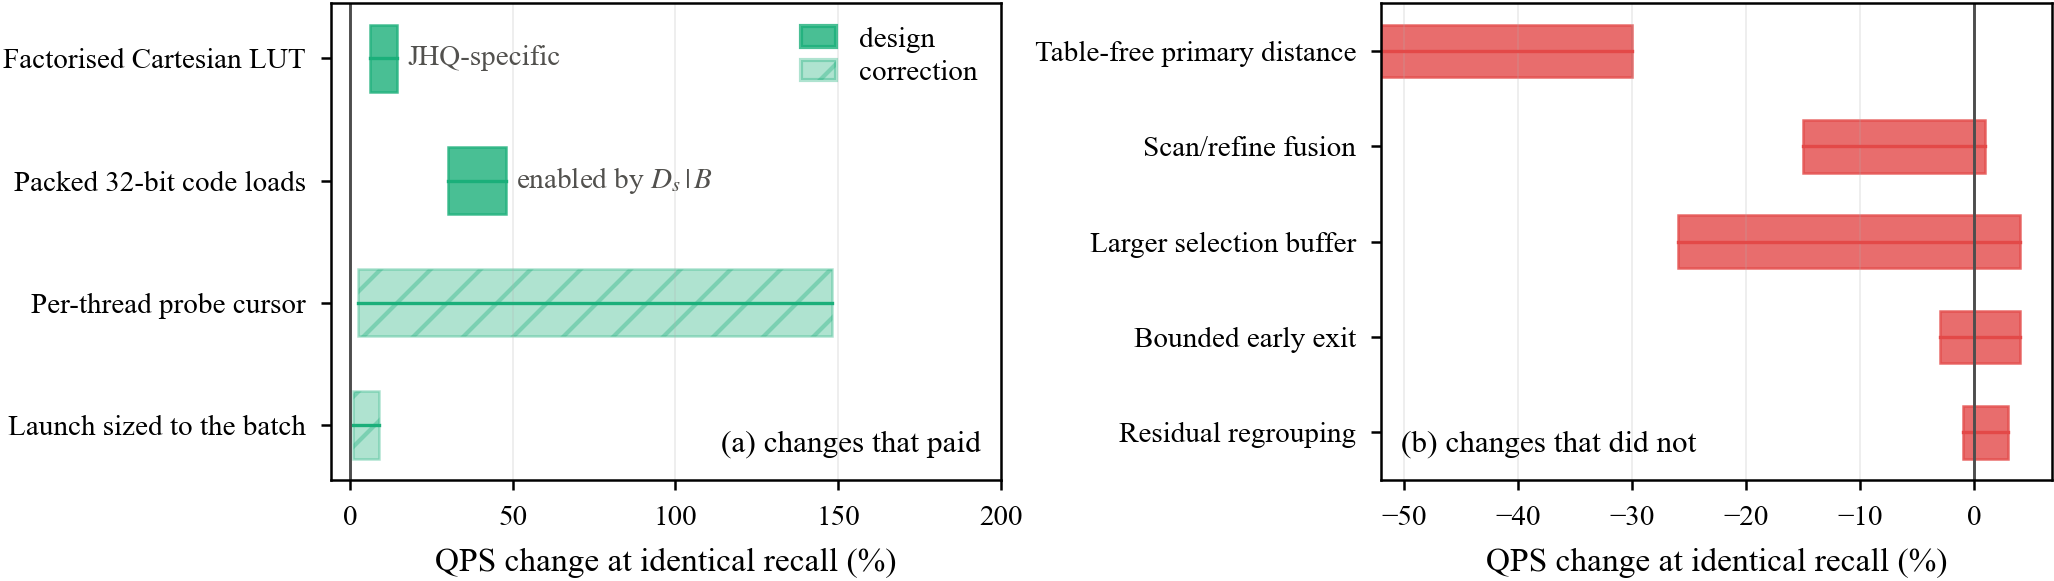
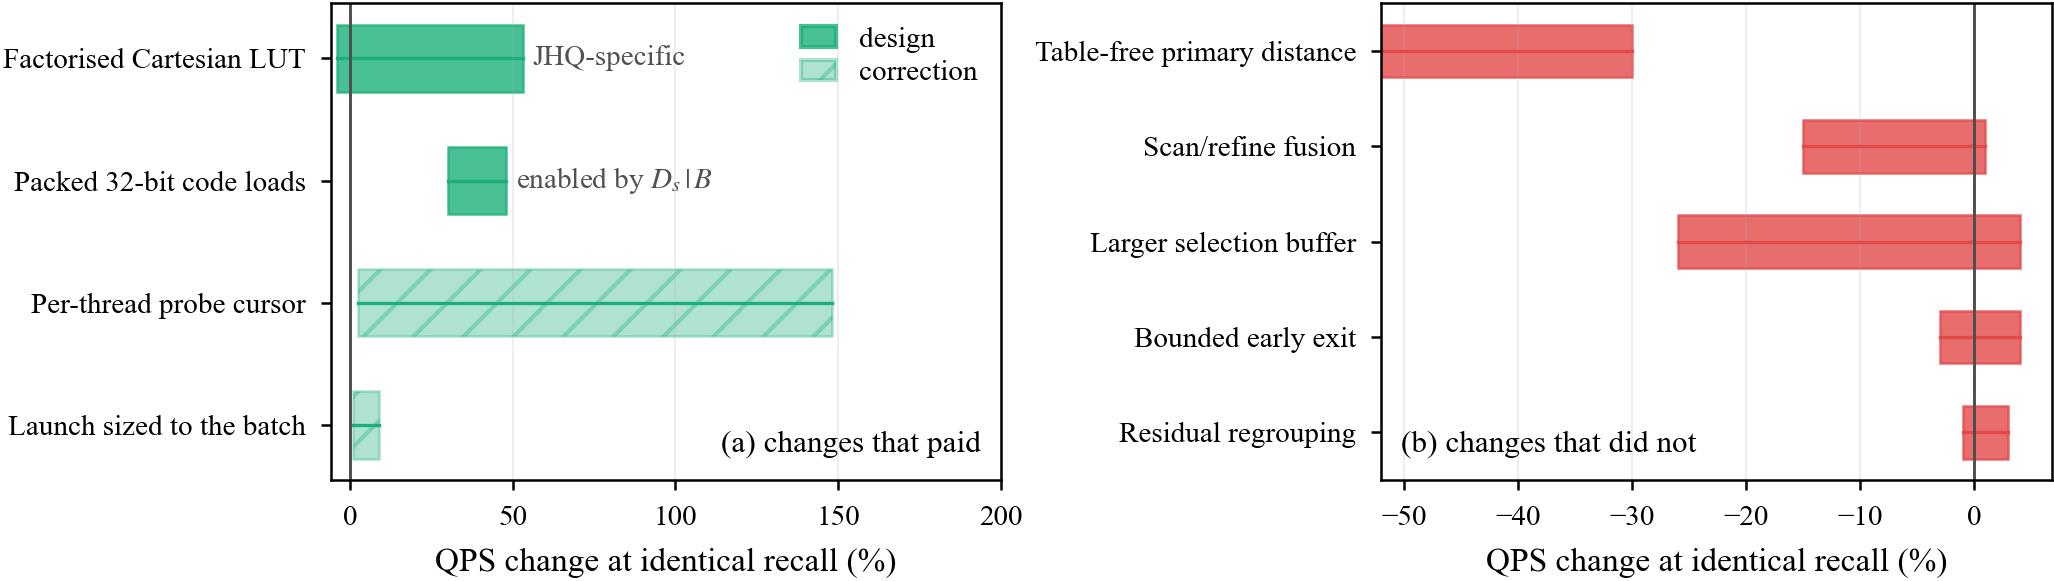
Withdraw two claims the new measurements do not support
"S=32 is the knee" is withdrawn. It came from one calibration draw per S on
two datasets, scored on the whole batch including the S queries it calibrated
on, and the draw it rested on was lucky: it picked alpha=64 on vogue at
nprobe=128 for a 0.0002 loss, where 2000 draws at the same S have a modal pick
of 32, a mean held-out loss of 0.0033 and a 95th percentile of 0.0110.

The knee is a property of the workload. openai3-3072 keeps 76% of draws inside
1e-3 at S=32 and 98% at S=64; vogue-768 is still losing 11% of draws at S=128.
ALPHA_RULE.md now carries the resampled table and keeps the old one folded
away for the record, and the paper should give S per workload against a stated
risk rather than one constant.

"+6 to +14.5%, 28 cells, none negative" is qualified rather than withdrawn: it
holds at the M it was measured at and nowhere else, because all 28 cells were
M=96 and M=128 and the note never varied M. Measured against M on one build,
the factorisation is worth -4% at M=96 and +53% at M=384. The mechanism is the
table against shared memory -- 98 KiB at M=96, which the carveout holds, and
393 KiB at M=384, which it does not -- so the factorisation matters exactly
where the full table stops fitting. That is a scaling property and a better
claim than an average, and one M=96 cell really is negative.

fig_ablation's LUT bar widens from 6..14.5 to -4..53 to match, with the
docstring saying the width is the finding and pointing at fig_lutgroups for
[…]

Changed region(s): [[0.1558, 0.031, 0.3427, 0.1859]]

diff --git a/paper_adc2026/figures/fig_ablation.py b/paper_adc2026/figures/fig_ablation.py
@@ -9,7 +9,11 @@ Sections 6.4 and 6.5, two panels.
 
       * **JHQ-specific.** The factorised Cartesian LUT is exact only because
         the primary codebook is a Cartesian product of one-dimensional levels.
-        No change to the code, the codebook or the distances.
+        No change to the code, the codebook or the distances. Its range is the
+        widest here and the width is the finding, not noise: -4% at M=96,
+        where the full 256-entry table still fits in shared memory, to +53% at
+        M=384, where it does not. fig_lutgroups has that against M; a bar can
+        only carry the span.
       * **Representation-enabled.** Four subspaces share a 32-bit load only
         because Ds | B at B=8 forces one bit a dimension. A consequence of the
         admissibility rule rather than an independent idea.
@@ -42,7 +46,7 @@ import numpy as np
 # label, low %, high %, kind.  kind: "jhq" the representation makes it exact,
 # "repr" the admissibility rule enables it, "corr" it removes unintended work.
 pos = [
-    ("Factorised Cartesian LUT",        6,   14.5, "jhq"),
+    ("Factorised Cartesian LUT",       -4,   53,   "jhq"),
     ("Packed 32-bit code loads",       30,   48,   "repr"),
     ("Per-thread probe cursor",         2.5, 148,  "corr"),
     ("Launch sized to the batch",       1,    9,   "corr"),

diff --git a/results/front6/ALPHA_RULE.md b/results/front6/ALPHA_RULE.md
@@ -69,20 +69,62 @@ not about the rule against the saturation point, which is not.
 
 ## How many samples
 
-openai3-3072 and arxiv-768 at nprobe=128:
+> **Superseded 2026-09-10.** The table that stood here reported one
+> calibration draw per S, on two datasets, and read a knee off it. That is
+> where "S=32 is the knee" came from. It does not survive resampling, and the
+> single draw it rested on was a lucky one. The old table is kept at the
+> bottom of this section for the record.
+
+`alpha_resample.py` replays the rule offline. `demo_jhq_v36` has always
+written per-query ids to `out_prefix`, so one frozen index and the full alpha
+grid (`paper_adc2026/data/alpha_perquery/`) is enough to sample S queries, run
+the rule on exactly what it would have seen, and score the alpha it picks **on
+the queries it did not see**. 2000 draws a cell, no GPU.
+
+Held-out recall given up, mean and 95th percentile over 2000 draws, and the
+share of draws inside the 1e-3 floor:
+
+| S | vogue-768, np=128 | | | openai3-3072, np=128 | | |
+|---|---|---|---:|---|---|---:|
+| | mean | p95 | <1e-3 | mean | p95 | <1e-3 |
+| 8 | 0.0165 | 0.0333 | 4% | 0.0049 | 0.0059 | 16% |
+| 16 | 0.0073 | 0.0109 | 12% | 0.0033 | 0.0059 | 44% |
+| **32** | **0.0033** | **0.0110** | **27%** | **0.0014** | **0.0060** | **76%** |
+| 64 | 0.0013 | 0.0026 | 54% | 0.0001 | 0.0000 | 98% |
+| 128 | 0.0005 | 0.0026 | 89% | 0.0000 | 0.0000 | 100% |
+
+**The knee is a property of the workload, not a constant.** On openai3-3072,
+whose saturation point is alpha=4, S=32 already keeps 76% of draws inside 1e-3
+and S=64 keeps 98%. On vogue-768 the curve is still falling at S=128, and even
+there 11% of draws fall outside.
+
+**And the single-draw number was luck.** That draw picked alpha=64 on vogue at
+nprobe=128 and gave up 0.0002. Across 2000 draws at the same S=32 the modal
+pick is 32, not 64; the mean held-out loss is 0.0033, sixteen times larger;
+and the 95th percentile is 0.0110, a full point of recall.
+
+So the paper should give S per workload with its measured risk -- "S such that
+95% of draws stay inside 1e-3" is a criterion the sweep can answer -- rather
+than print one constant. On these two that is S=64 for openai3-3072 and beyond
+S=128 for vogue-768.
+
+<details><summary>The superseded single-draw table</summary>
+
+openai3-3072 and arxiv-768 at nprobe=128, one draw each:
 
 | S | openai3-3072 | arxiv-768 |
 |---|---|---|
-| 8 | alpha=2, recall **−0.0058** | alpha=64, recall −0.0014 |
+| 8 | alpha=2, recall −0.0058 | alpha=64, recall −0.0014 |
 | 16 | alpha=4, +0.0000 | alpha=64, recall −0.0014 |
-| **32** | **alpha=4, +0.0000** | **alpha=100, +0.0000** |
+| 32 | alpha=4, +0.0000 | alpha=100, +0.0000 |
 | 64 | alpha=4, +0.0000 | alpha=100, +0.0000 |
 | 128 | alpha=4, +0.0000 | alpha=100, +0.0000 |
 
-**S=32 is the knee**, and it is 3% of a 1000-query batch. At S=8 the sample is
-small enough that agreement on it does not imply agreement on the batch, and
-openai3-3072 loses 0.6 points of recall for a gain it would have had anyway at
-S=32.
+Read as a knee at S=32. The resampled figures above are what those cells look
+like when they are not a single draw, and note that this table also scored the
+draw on the whole batch, including the S queries it calibrated on.
+
+</details>
 
 ## What it costs
 

diff --git a/paper_adc2026/README.md b/paper_adc2026/README.md
@@ -41,9 +41,14 @@ returns α_max and cannot do otherwise. arxiv-768 is that case.
 | recovers the swept saturation α | 3 of 4 at nprobe=128; the 4th is arxiv-768, still improving past the rule's α_max | `data/alpha_sample.log`, `data/alpha6.log` |
 | the nprobe=512 rows are **withdrawn** — no sweep was run there, and the earlier table reused the nprobe=128 answer | — | `results/front6/ALPHA_RULE.md` |
 | recall cost | ≤0.003, except bge-m3 at nprobe=1024 (0.0048) | `data/paper_fronts.log` |
-| S=32 is the knee | S=8 picks α=2 on openai3-3072 and loses 0.0058 | `data/alpha_sample.log` |
+| ~~S=32 is the knee~~ **withdrawn** — the knee is per workload | 2000 draws, scored on held-out queries: at S=32, 76% inside 1e-3 on openai3-3072 but only **27% on vogue-768**, where the mean held-out loss is 0.0033 and p95 is 0.0110 | `data/alpha_resample.json`, `figures/alpha_resample.py` |
+| S for a stated risk | openai3-3072: S=64 → 98% inside 1e-3. vogue-768: still 11% outside at S=128 | `data/alpha_resample.json` |
 | one slot of tolerance is the knee | 0 slots leaves 26% on the table, 2 slots costs 0.0035 | `data/alpha_fast.log` |
 | calibration cost | 6–29 ms, 0.7 batches to repay on openai3-3072 | `data/v57_launch.log` |
+| the factorised LUT is **M-dependent**, not a constant | −4% at M=96 where the 256-entry table still fits shared memory, **+53% at M=384** where it does not | `data/lut_groups.log` |
+| halves are the right split | G=2 beats G=1, G=4 and G=8 in all 8 configurations; the smaller tables (G=4, G=8) lose in proportion to their loads a candidate | `data/lut_groups.log` |
+| the table gain and the word gain **multiply** | on openai3-3072 the factorisation is worth 1.13/1.24/1.36 on the byte layout and 1.10/1.23/1.53 on the packed one | `data/lut_groups.log` |
+| index build, all five methods | JHQ 1.1–14.3 s; CAGRA int8 9–75 s; IVF-PQ 6.4–43 s; IVF-RaBitQ 4.5–14.0 s where it builds | `figures/fig_build.py` |
 
 **The observation behind it.** α's saturation point spans 25× across the six
 datasets — flat from α=4 on openai3-3072, still improving at 200 on

diff --git a/results/v47_split_lut/README.md b/results/v47_split_lut/README.md
@@ -29,6 +29,35 @@ conflict-free shared rather than an 8-way-conflicting shared or a global read.
 
 ## Measured, 28 cells, none negative
 
+> **Qualified 2026-09-10.** These 28 cells are all at M=96 and M=128, and the
+> effect turns out to be strongly M-dependent -- which this note could not see,
+> because it never varied M. `jhq_v59_lutgroups` measures the same
+> factorisation against the full 256-entry table on one build:
+>
+> | | nprobe=32 | 128 | 512 |
+> |---|---|---|---|
+> | vogue-768, M=96 | +1.5% / **−4.2%** | +3.9% / +2.2% | +9.7% / +12.2% |
+> | openai3-3072, M=384 | +13.4% / +9.5% | +23.5% / +22.5% | +35.8% / **+53.0%** |
+>
+> (byte layout / packed layout.) So "+6 to +14.5%, none negative" holds for
+> the M it was measured at and understates the effect by a factor of four at
+> M=384 -- while one cell at M=96 does come out negative.
+>
+> The mechanism is the table's size against shared memory. 256 entries a
+> subspace is M*256*4 bytes: 98 KiB at M=96, which the carveout still holds,
+> and 393 KiB at M=384, which it does not, so the unfactorised table there is
+> read from global memory. **The factorisation matters exactly where the full
+> table stops fitting**, which is a scaling property and a better claim than
+> the average. See `paper_adc2026/figures/fig_lutgroups.py`.
+>
+> The same sweep also answers a question this note did not ask -- why halves,
+> and not quarters. G=4 and G=8 give *smaller* tables (16 entries against 32)
+> and are monotonically slower, in proportion to their loads a candidate: on
+> vogue at nprobe=512 the ratios to G=2 are 0.90, 1.00, 0.64, 0.39. The scan
+> is issue-bound, so past the point where the table fits, shrinking it further
+> only costs instructions.
+
+
 | | nprobe=8 | 32 | 128 | 256 |
 |---|---|---|---|---|
 | **alpha=100** | | | | |
